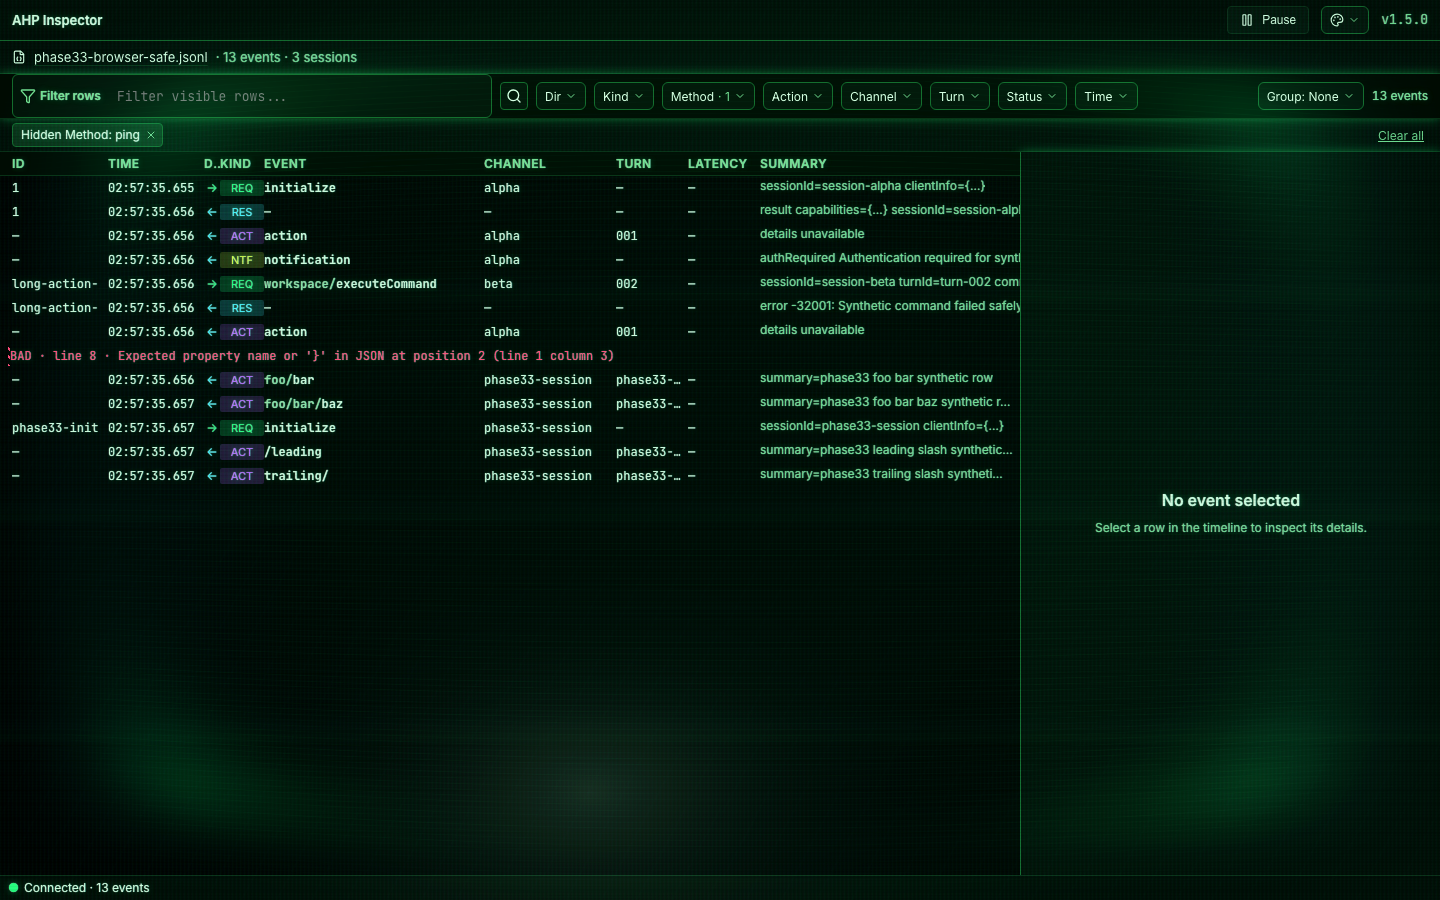
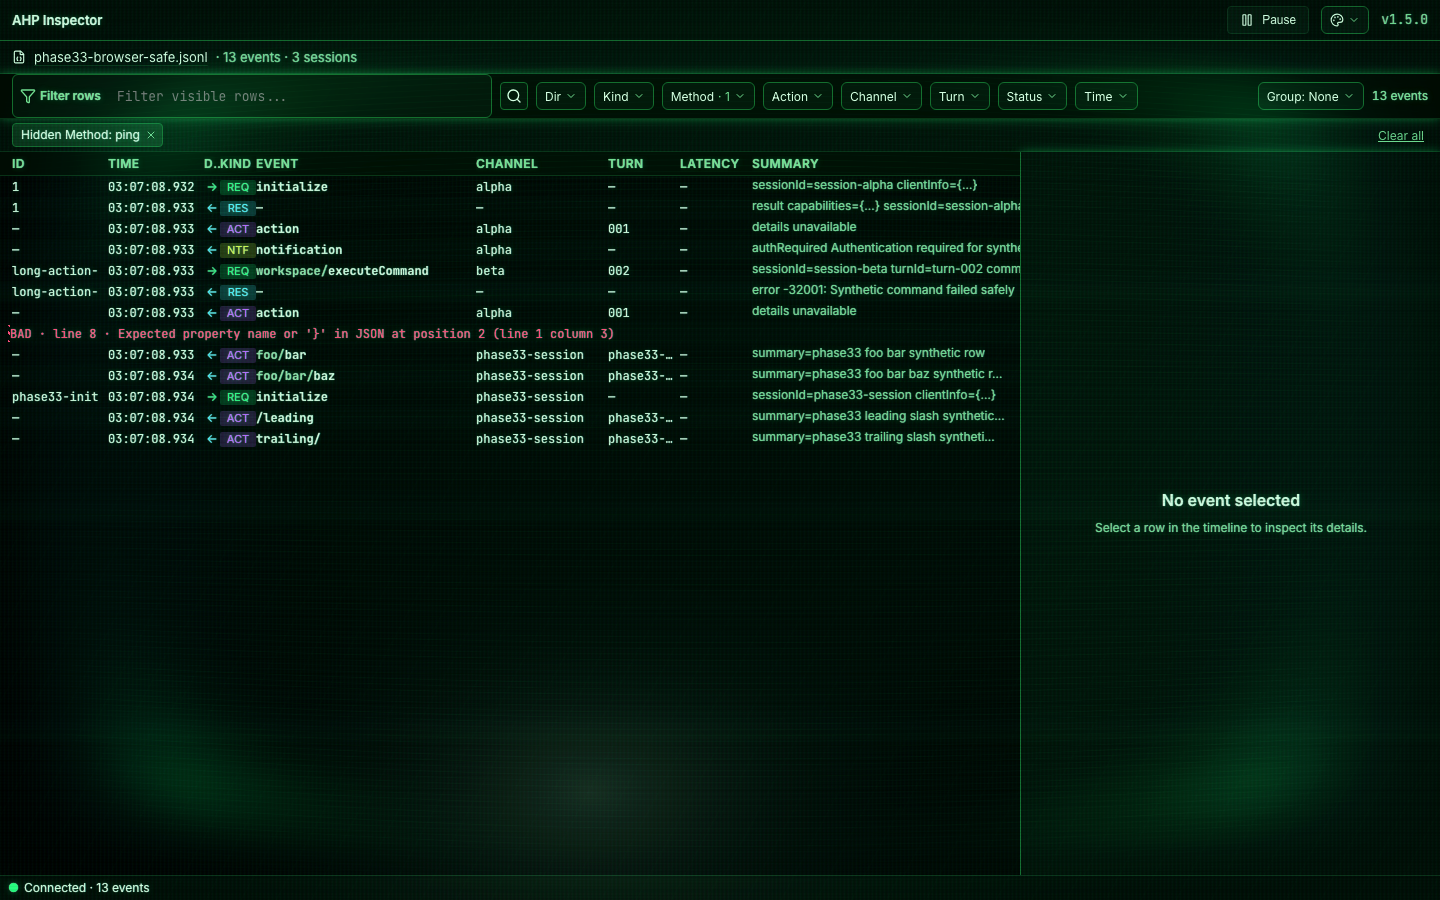
Tighten timeline density polish (Written by Copilot)
Use 21px timeline rows, add subtle alternating row backgrounds, and narrow the event kind badge/column while preserving selected/search/pair highlight precedence. Refresh Phase 33 fixture screenshots for the updated density. (Written by Copilot)

Changed region(s): [[0.0, 0.1556, 0.4688, 0.56], [0.4062, 0.1556, 0.7188, 0.5289], [0.3125, 0.1556, 0.375, 0.2178]]

diff --git a/packages/ui/src/components/timeline/EventRow.tsx b/packages/ui/src/components/timeline/EventRow.tsx
@@ -29,6 +29,7 @@ export interface EventRowProps {
   pairHidden?: "request" | "response" | null;
   /** Grid template for this row; must match the header and all sibling rows. */
   gridColumns?: string;
+  isAlternate?: boolean;
 }
 
 /** Default ID column width (px) used before any data-driven sizing applies. */
@@ -40,7 +41,7 @@ export const ID_COLUMN_DEFAULT_WIDTH = 96;
  * leave a large gap before the Time column.
  */
 export function buildTimelineGridColumns(idColumnWidth: number = ID_COLUMN_DEFAULT_WIDTH): string {
-  return `4px ${idColumnWidth}px 96px 16px 44px 220px 132px 72px 72px minmax(240px, 1fr)`;
+  return `4px ${idColumnWidth}px 96px 16px 36px 220px 132px 72px 72px minmax(240px, 1fr)`;
 }
 
 export const TIMELINE_GRID_COLUMNS = buildTimelineGridColumns();
@@ -114,6 +115,7 @@ export const EventRow = memo(function EventRow({
   pairHighlight = null,
   pairHidden = null,
   gridColumns = TIMELINE_GRID_COLUMNS,
+  isAlternate = false,
 }: EventRowProps): JSX.Element {
   const label = primaryLabel(row);
   const labelTitle = primaryLabelTitle(row);
@@ -148,6 +150,7 @@ export const EventRow = memo(function EventRow({
       data-search-match={isSearchMatch ? "true" : undefined}
       data-pair-highlight={pairHighlight ?? undefined}
       data-pair-hidden={pairHidden ?? undefined}
+      data-alternate={isAlternate ? "true" : undefined}
       style={{
         display: "grid",
         gridTemplateColumns: gridColumns,
@@ -165,7 +168,9 @@ export const EventRow = memo(function EventRow({
             ? "color-mix(in srgb, var(--color-info) 14%, transparent)"
             : isSearchMatch
               ? "color-mix(in srgb, var(--color-search-match-bg) 28%, transparent)"
-              : "transparent",
+              : isAlternate
+                ? "color-mix(in srgb, var(--color-surface-raised) 18%, transparent)"
+                : "transparent",
         ...(top !== undefined
           ? {
               position: "absolute",

diff --git a/packages/ui/src/components/timeline/TimelineList.tsx b/packages/ui/src/components/timeline/TimelineList.tsx
@@ -12,8 +12,8 @@ import { GroupHeaderRow } from "./GroupHeaderRow.js";
 import { ParseErrorRow } from "./ParseErrorRow.js";
 
 const ITEM_HEIGHT = {
-  row: 24,
-  "parse-error": 24,
+  row: 21,
+  "parse-error": 21,
   header: 24,
 } as const;
 
@@ -107,8 +107,8 @@ export function TimelineList({
     getScrollElement: () => parentRef.current,
     estimateSize: (i) => {
       const item = items[i];
-      if (!item) return 24;
-      return ITEM_HEIGHT[getItemKindKey(item, rows)] ?? 24;
+      if (!item) return 21;
+      return ITEM_HEIGHT[getItemKindKey(item, rows)] ?? 21;
     },
     overscan: 12,
   });
@@ -312,7 +312,8 @@ export function TimelineList({
               // kind === "row"
               const row = rows[item.rowIdx];
               if (!row) return null;
-              const itemHeight = ITEM_HEIGHT[getItemKindKey(item, rows)] ?? 24;
+              const itemHeight = ITEM_HEIGHT[getItemKindKey(item, rows)] ?? 21;
+              const isAlternate = vi.index % 2 === 1;
               const isSelected = row.idx === selectedIdx;
               const pairHighlight =
                 selectedPairIdx !== null && row.idx === selectedPairIdx && selectedPairVisible
@@ -336,6 +337,7 @@ export function TimelineList({
                   row={row}
                   isSelected={isSelected}
                   onClick={() => onSelect(row.idx)}
+                  isAlternate={isAlternate}
                   style={style}
                 />
               ) : (
@@ -349,6 +351,7 @@ export function TimelineList({
                   pairHighlight={pairHighlight}
                   pairHidden={pairHidden}
                   gridColumns={gridColumns}
+                  isAlternate={isAlternate}
                   top={vi.start}
                 />
               );

diff --git a/packages/ui/src/components/timeline/TimelineList.virt.test.tsx b/packages/ui/src/components/timeline/TimelineList.virt.test.tsx
@@ -134,10 +134,10 @@ describe("TimelineList — virtualization", () => {
     const rendered = await screen.findAllByRole("row");
     expect(rendered.length).toBeGreaterThanOrEqual(1);
     expect(rendered.length).toBeLessThan(100);
-    expect(grid.querySelector('div[style*="height: 1200000px"]')).toBeTruthy();
+    expect(grid.querySelector('div[style*="height: 1050000px"]')).toBeTruthy();
   });
 
-  it("renders compact 24px timeline row, parse-error row, and column header heights", async () => {
+  it("renders compact 21px timeline row, parse-error row, and 24px column header heights", async () => {
     const rows = [makeRow(0), parseErrorRow];
     render(
       <div style={{ height: 400 }}>
@@ -156,7 +156,8 @@ describe("TimelineList — virtualization", () => {
       lineHeight: "16px",
     });
     expect(await screen.findByTestId("row-0")).toHaveStyle({ height: "var(--row-height)" });
-    expect(await screen.findByTestId("parse-error-1")).toHaveStyle({ height: "24px" });
+    expect(await screen.findByTestId("parse-error-1")).toHaveStyle({ height: "21px" });
+    expect(screen.getByTestId("parse-error-1")).toHaveAttribute("data-alternate", "true");
   });
 
   it("renders a scroll-to-bottom control for the timeline", () => {

diff --git a/packages/ui/src/components/timeline/ParseErrorRow.tsx b/packages/ui/src/components/timeline/ParseErrorRow.tsx
@@ -8,11 +8,13 @@ export function ParseErrorRow({
   row,
   isSelected,
   onClick,
+  isAlternate = false,
   style,
 }: {
   row: EventRowData;
   isSelected: boolean;
   onClick: () => void;
+  isAlternate?: boolean;
   style?: CSSProperties;
 }): JSX.Element {
   const cellStyle: CSSProperties = {
@@ -36,6 +38,7 @@ export function ParseErrorRow({
       }}
       tabIndex={isSelected ? 0 : -1}
       data-testid={`parse-error-${row.idx}`}
+      data-alternate={isAlternate ? "true" : undefined}
       style={{
         display: "grid",
         gridTemplateColumns: "2px 1fr",
@@ -46,7 +49,11 @@ export function ParseErrorRow({
         cursor: "pointer",
         fontSize: "var(--text-ui-muted-size)",
         lineHeight: "16px",
-        background: isSelected ? "var(--color-surface-raised)" : "transparent",
+        background: isSelected
+          ? "var(--color-surface-raised)"
+          : isAlternate
+            ? "color-mix(in srgb, var(--color-surface-raised) 18%, transparent)"
+            : "transparent",
         ...style,
       }}
     >

diff --git a/packages/ui/src/components/timeline/EventRow.columns.test.tsx b/packages/ui/src/components/timeline/EventRow.columns.test.tsx
@@ -191,6 +191,19 @@ describe("EventRow — UI-SPEC §04.1 columns", () => {
     });
   });
 
+  it("applies a subtle alternate-row background only when requested", () => {
+    const { rerender } = render(
+      <EventRow row={baseRow} isSelected={false} isAlternate onSelect={() => {}} />,
+    );
+    expect(screen.getByRole("row")).toHaveAttribute("data-alternate", "true");
+    expect(screen.getByRole("row").getAttribute("style")).toContain(
+      "color-mix(in srgb, var(--color-surface-raised) 18%, transparent)",
+    );
+
+    rerender(<EventRow row={baseRow} isSelected isAlternate onSelect={() => {}} />);
+    expect(screen.getByRole("row").getAttribute("style")).toContain("var(--row-selected-bg)");
+  });
+
   it("marks a row as a search match", () => {
     render(<EventRow row={baseRow} isSelected={false} isSearchMatch onSelect={() => {}} />);
     expect(screen.getByRole("row")).toHaveAttribute("data-search-match", "true");

diff --git a/packages/ui/src/components/timeline/ParseErrorRow.test.tsx b/packages/ui/src/components/timeline/ParseErrorRow.test.tsx
@@ -58,6 +58,19 @@ describe("ParseErrorRow — UI-SPEC §7.3", () => {
     });
   });
 
+  it("applies subtle alternate-row background below selection state", () => {
+    const { rerender } = render(
+      <ParseErrorRow row={baseError} isSelected={false} isAlternate onClick={() => {}} />,
+    );
+    expect(screen.getByRole("row")).toHaveAttribute("data-alternate", "true");
+    expect(screen.getByRole("row").getAttribute("style")).toContain(
+      "color-mix(in srgb, var(--color-surface-raised) 18%, transparent)",
+    );
+
+    rerender(<ParseErrorRow row={baseError} isSelected isAlternate onClick={() => {}} />);
+    expect(screen.getByRole("row").getAttribute("style")).toContain("var(--color-surface-raised)");
+  });
+
   it("falls back to '?' / 'unknown' when fields are null", () => {
     render(
       <ParseErrorRow

diff --git a/e2e/phase33.spec.ts b/e2e/phase33.spec.ts
@@ -100,10 +100,10 @@ async function capture(page: Page, filename: string): Promise<void> {
 async function assertCompactRows(page: Page): Promise<void> {
   const firstEventRow = page.locator('[role="row"][data-testid^="row-"]').first();
   await expect(firstEventRow).toBeVisible();
-  await expect(firstEventRow).toHaveCSS("height", "24px");
+  await expect(firstEventRow).toHaveCSS("height", "21px");
   const box = await firstEventRow.boundingBox();
   expect(box).not.toBeNull();
-  if (box) expect(Math.round(box.height)).toBe(24);
+  if (box) expect(Math.round(box.height)).toBe(21);
 }
 
 async function expectVisibleLabel(locator: Locator, text: string): Promise<void> {

diff --git a/packages/ui/src/styles/tokens.css b/packages/ui/src/styles/tokens.css
@@ -32,7 +32,7 @@
   --space-5: 24px;
   --space-6: 32px;
   --space-8: 48px;
-  --row-height: 24px;
+  --row-height: 21px;
 
   /* Typography */
   --font-sans:
@@ -189,7 +189,7 @@
   --space-5: 24px;
   --space-6: 32px;
   --space-8: 48px;
-  --row-height: 24px;
+  --row-height: 21px;
 
   --font-sans:
     "Inter Variable", ui-sans-serif, system-ui, -apple-system, "Segoe UI", Roboto, sans-serif;
@@ -322,7 +322,7 @@
   --space-5: 24px;
   --space-6: 32px;
   --space-8: 48px;
-  --row-height: 24px;
+  --row-height: 21px;
 
   --font-sans:
     "Inter Variable", ui-sans-serif, system-ui, -apple-system, "Segoe UI", Roboto, sans-serif;

diff --git a/packages/ui/src/components/timeline/cells/KindTag.tsx b/packages/ui/src/components/timeline/cells/KindTag.tsx
@@ -30,13 +30,13 @@ export function KindTag({ kind }: { kind: KindTagValue }): JSX.Element {
         display: "inline-flex",
         alignItems: "center",
         justifyContent: "center",
-        width: 44,
-        height: 16,
+        width: 36,
+        height: 15,
         boxSizing: "border-box",
         textAlign: "center",
         padding: "0 3px",
         fontSize: "11px",
-        lineHeight: "16px",
+        lineHeight: "15px",
         textTransform: "uppercase",
         verticalAlign: "middle",
         background: `color-mix(in srgb, var(${v}) 20%, transparent)`,

diff --git a/packages/ui/src/components/timeline/cells/KindTag.test.tsx b/packages/ui/src/components/timeline/cells/KindTag.test.tsx
@@ -27,9 +27,10 @@ describe("KindTag — UI-SPEC §5.2", () => {
       display: "inline-flex",
       alignItems: "center",
       justifyContent: "center",
-      height: "16px",
+      width: "36px",
+      height: "15px",
       fontSize: "11px",
-      lineHeight: "16px",
+      lineHeight: "15px",
       verticalAlign: "middle",
     });
   });
